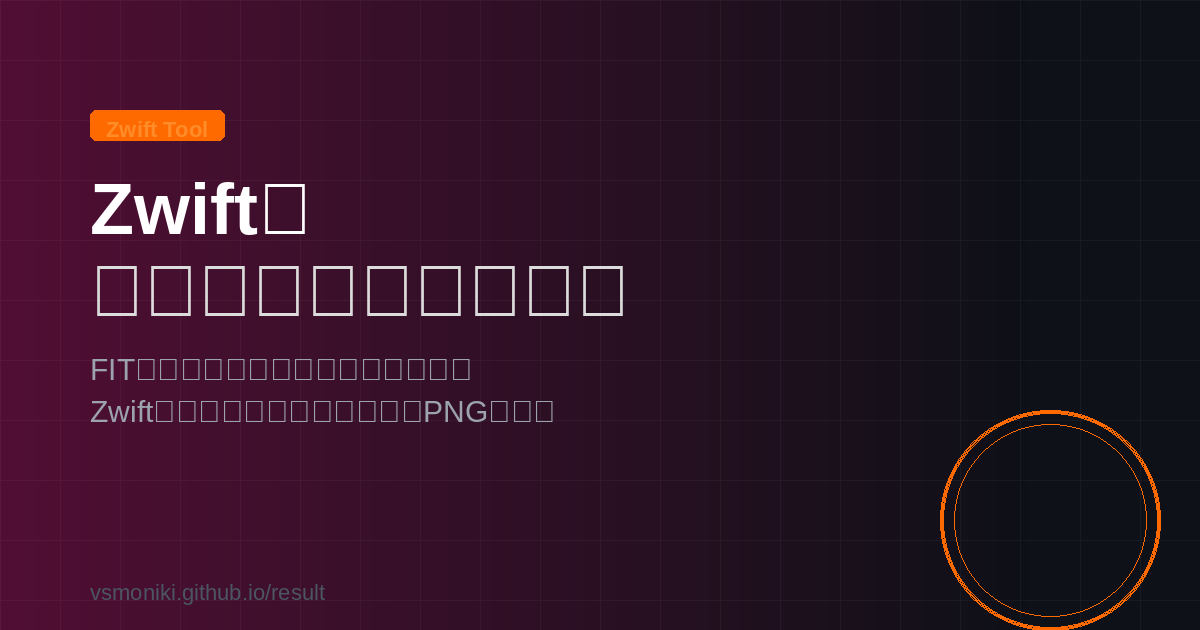
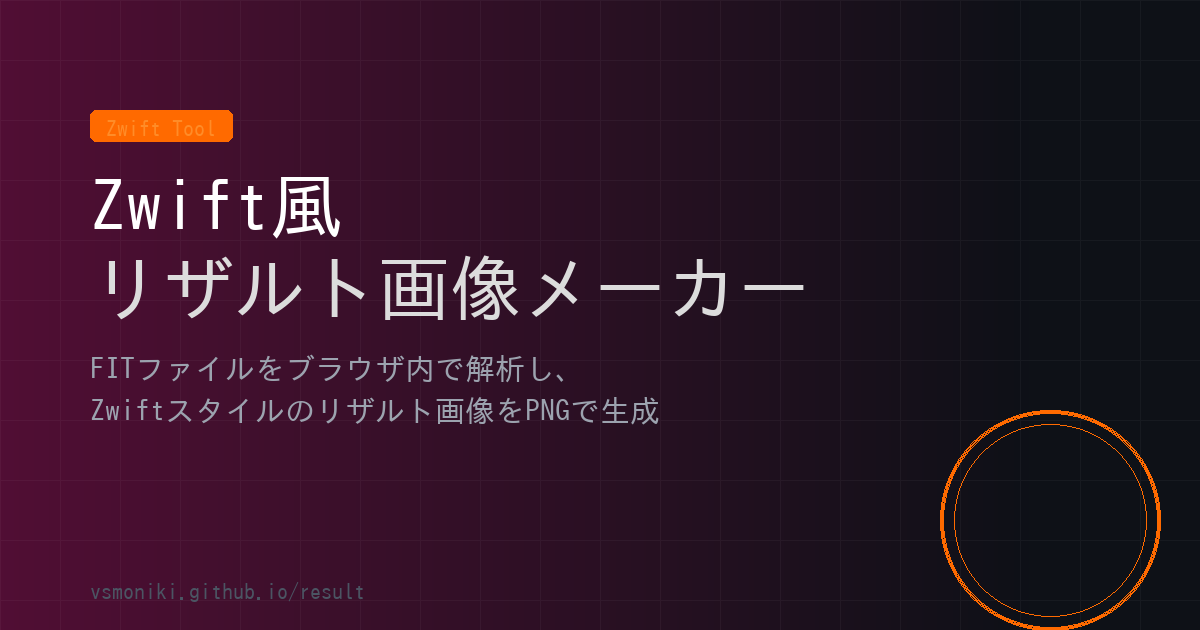
Fix OGP image: use Japanese-capable font (IPA Gothic)
Prioritize IPA Gothic / WenQuanYi in font loading so Japanese
characters render correctly instead of showing tofu boxes.

https://claude.ai/code/session_01HoGDMNs8uA7b7iFKATXXr8

diff --git a/scripts/gen-ogp.py b/scripts/gen-ogp.py
@@ -44,11 +44,18 @@ d.ellipse(
     outline=(255, 106, 0, 50), width=1
 )
 
-# --- fonts ---
+# --- fonts (Japanese-capable, prioritise IPA Gothic) ---
 def load_font(size, bold=False):
     candidates = [
+        # NotoSansCJK (bold variant used for both weights since IPA has no bold)
         f"/usr/share/fonts/truetype/noto/NotoSansCJK-{'Bold' if bold else 'Regular'}.ttc",
         f"/usr/share/fonts/opentype/noto/NotoSansCJK-{'Bold' if bold else 'Regular'}.ttc",
+        # IPA Gothic – full Japanese coverage
+        "/usr/share/fonts/truetype/fonts-japanese-gothic.ttf",
+        "/usr/share/fonts/opentype/ipafont-gothic/ipag.ttf",
+        # WenQuanYi – CJK coverage
+        "/usr/share/fonts/truetype/wqy/wqy-zenhei.ttc",
+        # Latin fallbacks
         "/usr/share/fonts/truetype/liberation/LiberationSans-Bold.ttf" if bold else
         "/usr/share/fonts/truetype/liberation/LiberationSans-Regular.ttf",
         "/usr/share/fonts/truetype/dejavu/DejaVuSans-Bold.ttf" if bold else
